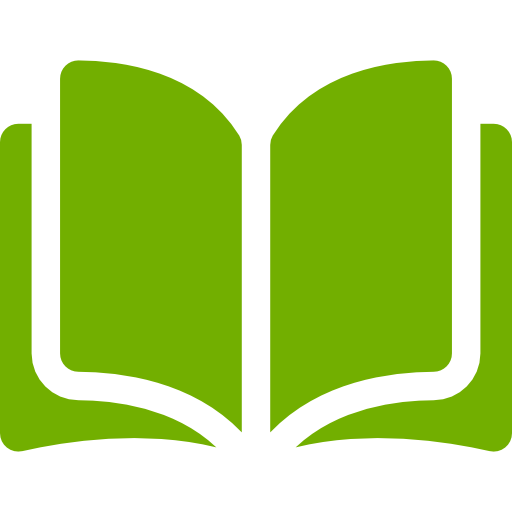
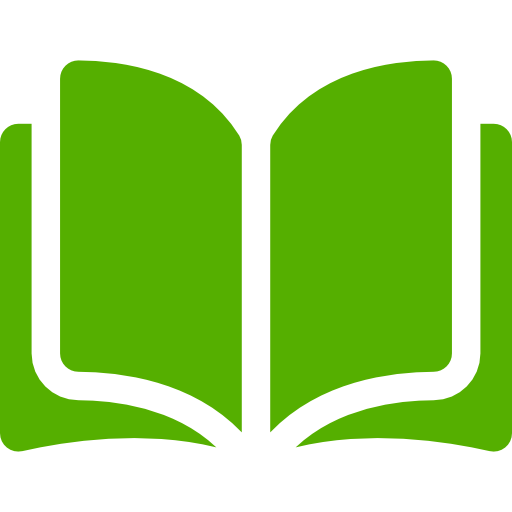
completed

diff --git a/index.js b/index.js
@@ -1,15 +1,18 @@
-function Book(title, author, pages, read, id) {
-    this.title = title;
-    this.author = author;
-    this.pages = pages;
-    this.read = read;
-    this.id = id;
+class Book {
+    constructor (title, author, pages, read, id) {
+        this.title = title;
+        this.author = author;
+        this.pages = pages;
+        this.read = read;
+        this.id = id;    
+    }
 }
 
 let bookStorage = [];
 let currentId = 4;
 let editingBook = false;
 let editingBookIndex = -1;
+let editingBookListItem = null;
 
 const totalBooks = document.querySelector("#overall #facts #total-book");
 const totalRead = document.querySelector("#overall #facts #total-read");
@@ -43,8 +46,9 @@ function reset() {
     
     newBookAddButton.textContent = "Add New Book";
     
-    let editingBook = false;
-    let editingBookIndex = -1;
+    editingBook = false;
+    editingBookIndex = -1;
+    editingBookListItem = null;
 }
 
 addBookButton.addEventListener("click", () => {
@@ -101,6 +105,9 @@ newBookAddButton.addEventListener("click", (event) => {
             
             totalPages.textContent = Number(totalPages.textContent) - Number(bookStorage[editingBookIndex].pages) + Number(newBookPages.value);
             bookStorage[editingBookIndex].pages = newBookPages.value;
+
+            editingBookListItem.childNodes[0].childNodes[1].childNodes[0].textContent = newBookTitle.value;
+            editingBookListItem.childNodes[0].childNodes[1].childNodes[1].textContent = `${newBookAuthor.value}  |  ${newBookPages.value} pages`;
         }
         reset();
     }
@@ -214,7 +221,8 @@ function editButtonFunctionality(event) {
     
     editingBook = true;
     editingBookIndex = index;
-    
+    editingBookListItem = event.target.parentNode.parentNode;
+
     newBookTitle.value = bookStorage[index].title;
     newBookAuthor.value = bookStorage[index].author;
     newBookPages.value = bookStorage[index].pages;

diff --git a/index.html b/index.html
@@ -40,23 +40,23 @@
                     </div>
                     <ul>
                         
-
-                        <!-- <li>
-                            <div class="book">
-                                <img src="images/book.png" role="presentation">
-                                <div class="text">
-                                    <h3>Deyal</h3>
-                                    <pre>Humayun Ahmed   |   474 pages</pre>
+                        <!--
+                            <li>
+                                <div class="book">
+                                    <img src="images/book.png" role="presentation">
+                                    <div class="text">
+                                        <h3>Deyal</h3>
+                                        <pre>Humayun Ahmed   |   474 pages</pre>
+                                    </div>
                                 </div>
-                            </div>
-                            <div class="buttons">
-                                <p class="id"><p>
-                                <button class="read not-read">NOT READ</button>
-                                <button class="edit">EDIT</button>
-                                <button class="remove">REMOVE</button>
-                            </div> 
-                        </li> -->
-
+                                <div class="buttons">
+                                    <p class="id"><p>
+                                    <button class="read not-read">NOT READ</button>
+                                    <button class="edit">EDIT</button>
+                                    <button class="remove">REMOVE</button>
+                                </div> 
+                            </li>
+                        -->
 
                     </ul>
                 </section>

diff --git a/styles.css b/styles.css
@@ -1,8 +1,8 @@
 :root {
     font-size: 10px;
     
-    --primary-color: #72af00;
-    --background-color: #f8ffe9;
+    --primary-color: #55af00;
+    --background-color: #edffe9;
 }
 
 * {
@@ -57,6 +57,7 @@ main {
     width: 100%;
     padding: 20px 0 30px 0;
     border-radius: 8px;
+    box-shadow: 0px 5px 5px 0px rgb(0, 0, 0, 0.2);
 }
 
 #overall * {
